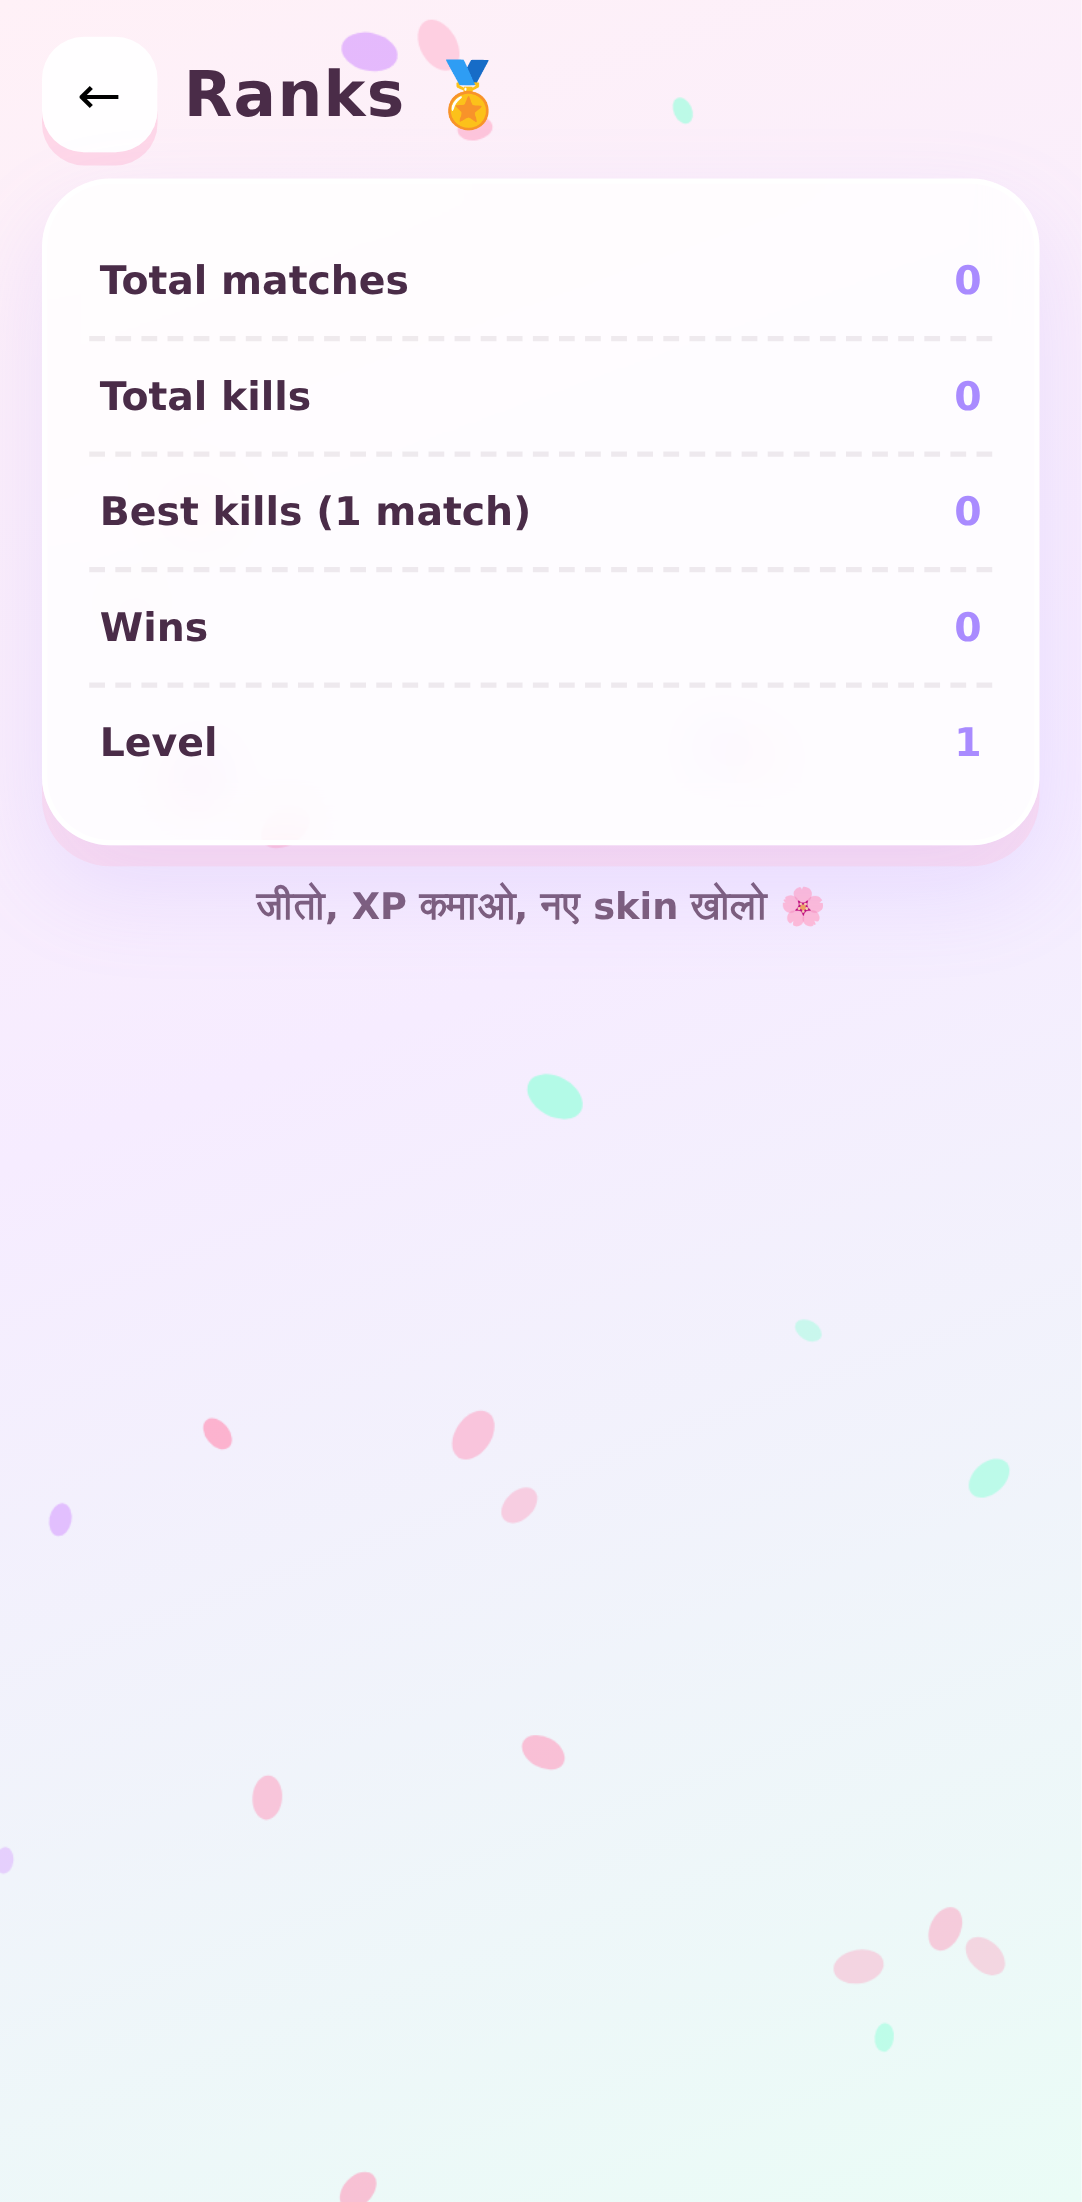
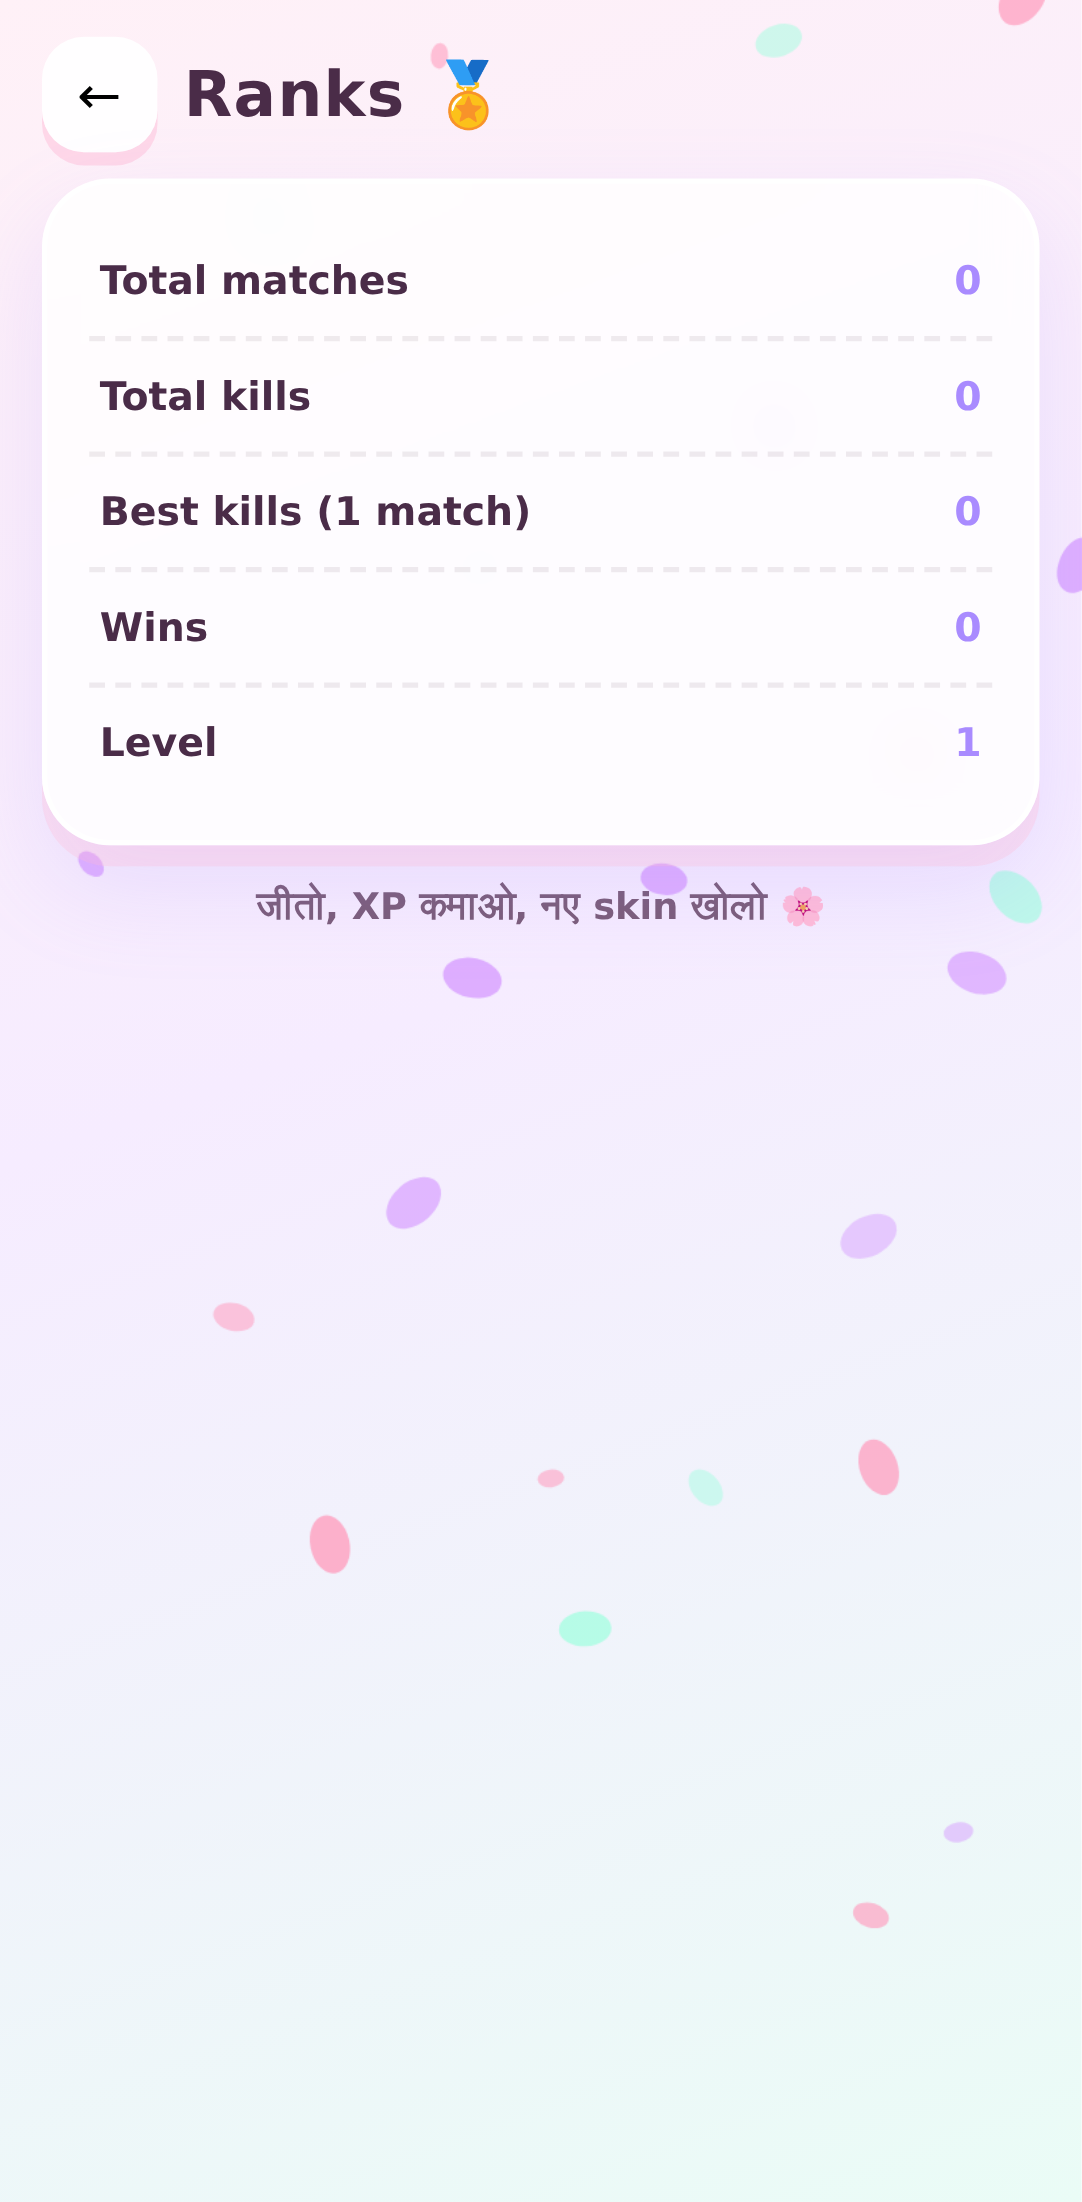
perf: game ke dauraan petals loop band; ci: ANR dialogs suppress

diff --git a/game/index.html b/game/index.html
@@ -495,8 +495,9 @@ $("btn-reset").onclick = () => {
   let last = performance.now();
   (function loop(t){
     const dt = Math.min(.05, (t - last) / 1000); last = t;
+    // game chal raha ho to petals band (performance/battery)
+    if (reduce || current === "game") { last = t; requestAnimationFrame(loop); return; }
     x.clearRect(0, 0, innerWidth, innerHeight);
-    if (reduce) { requestAnimationFrame(loop); return; }
     for (const p of ps){
       p.y += p.vy * dt; p.x += p.vx * dt; p.a += p.va * dt;
       if (p.y > innerHeight + 30) Object.assign(p, newPetal(false));
